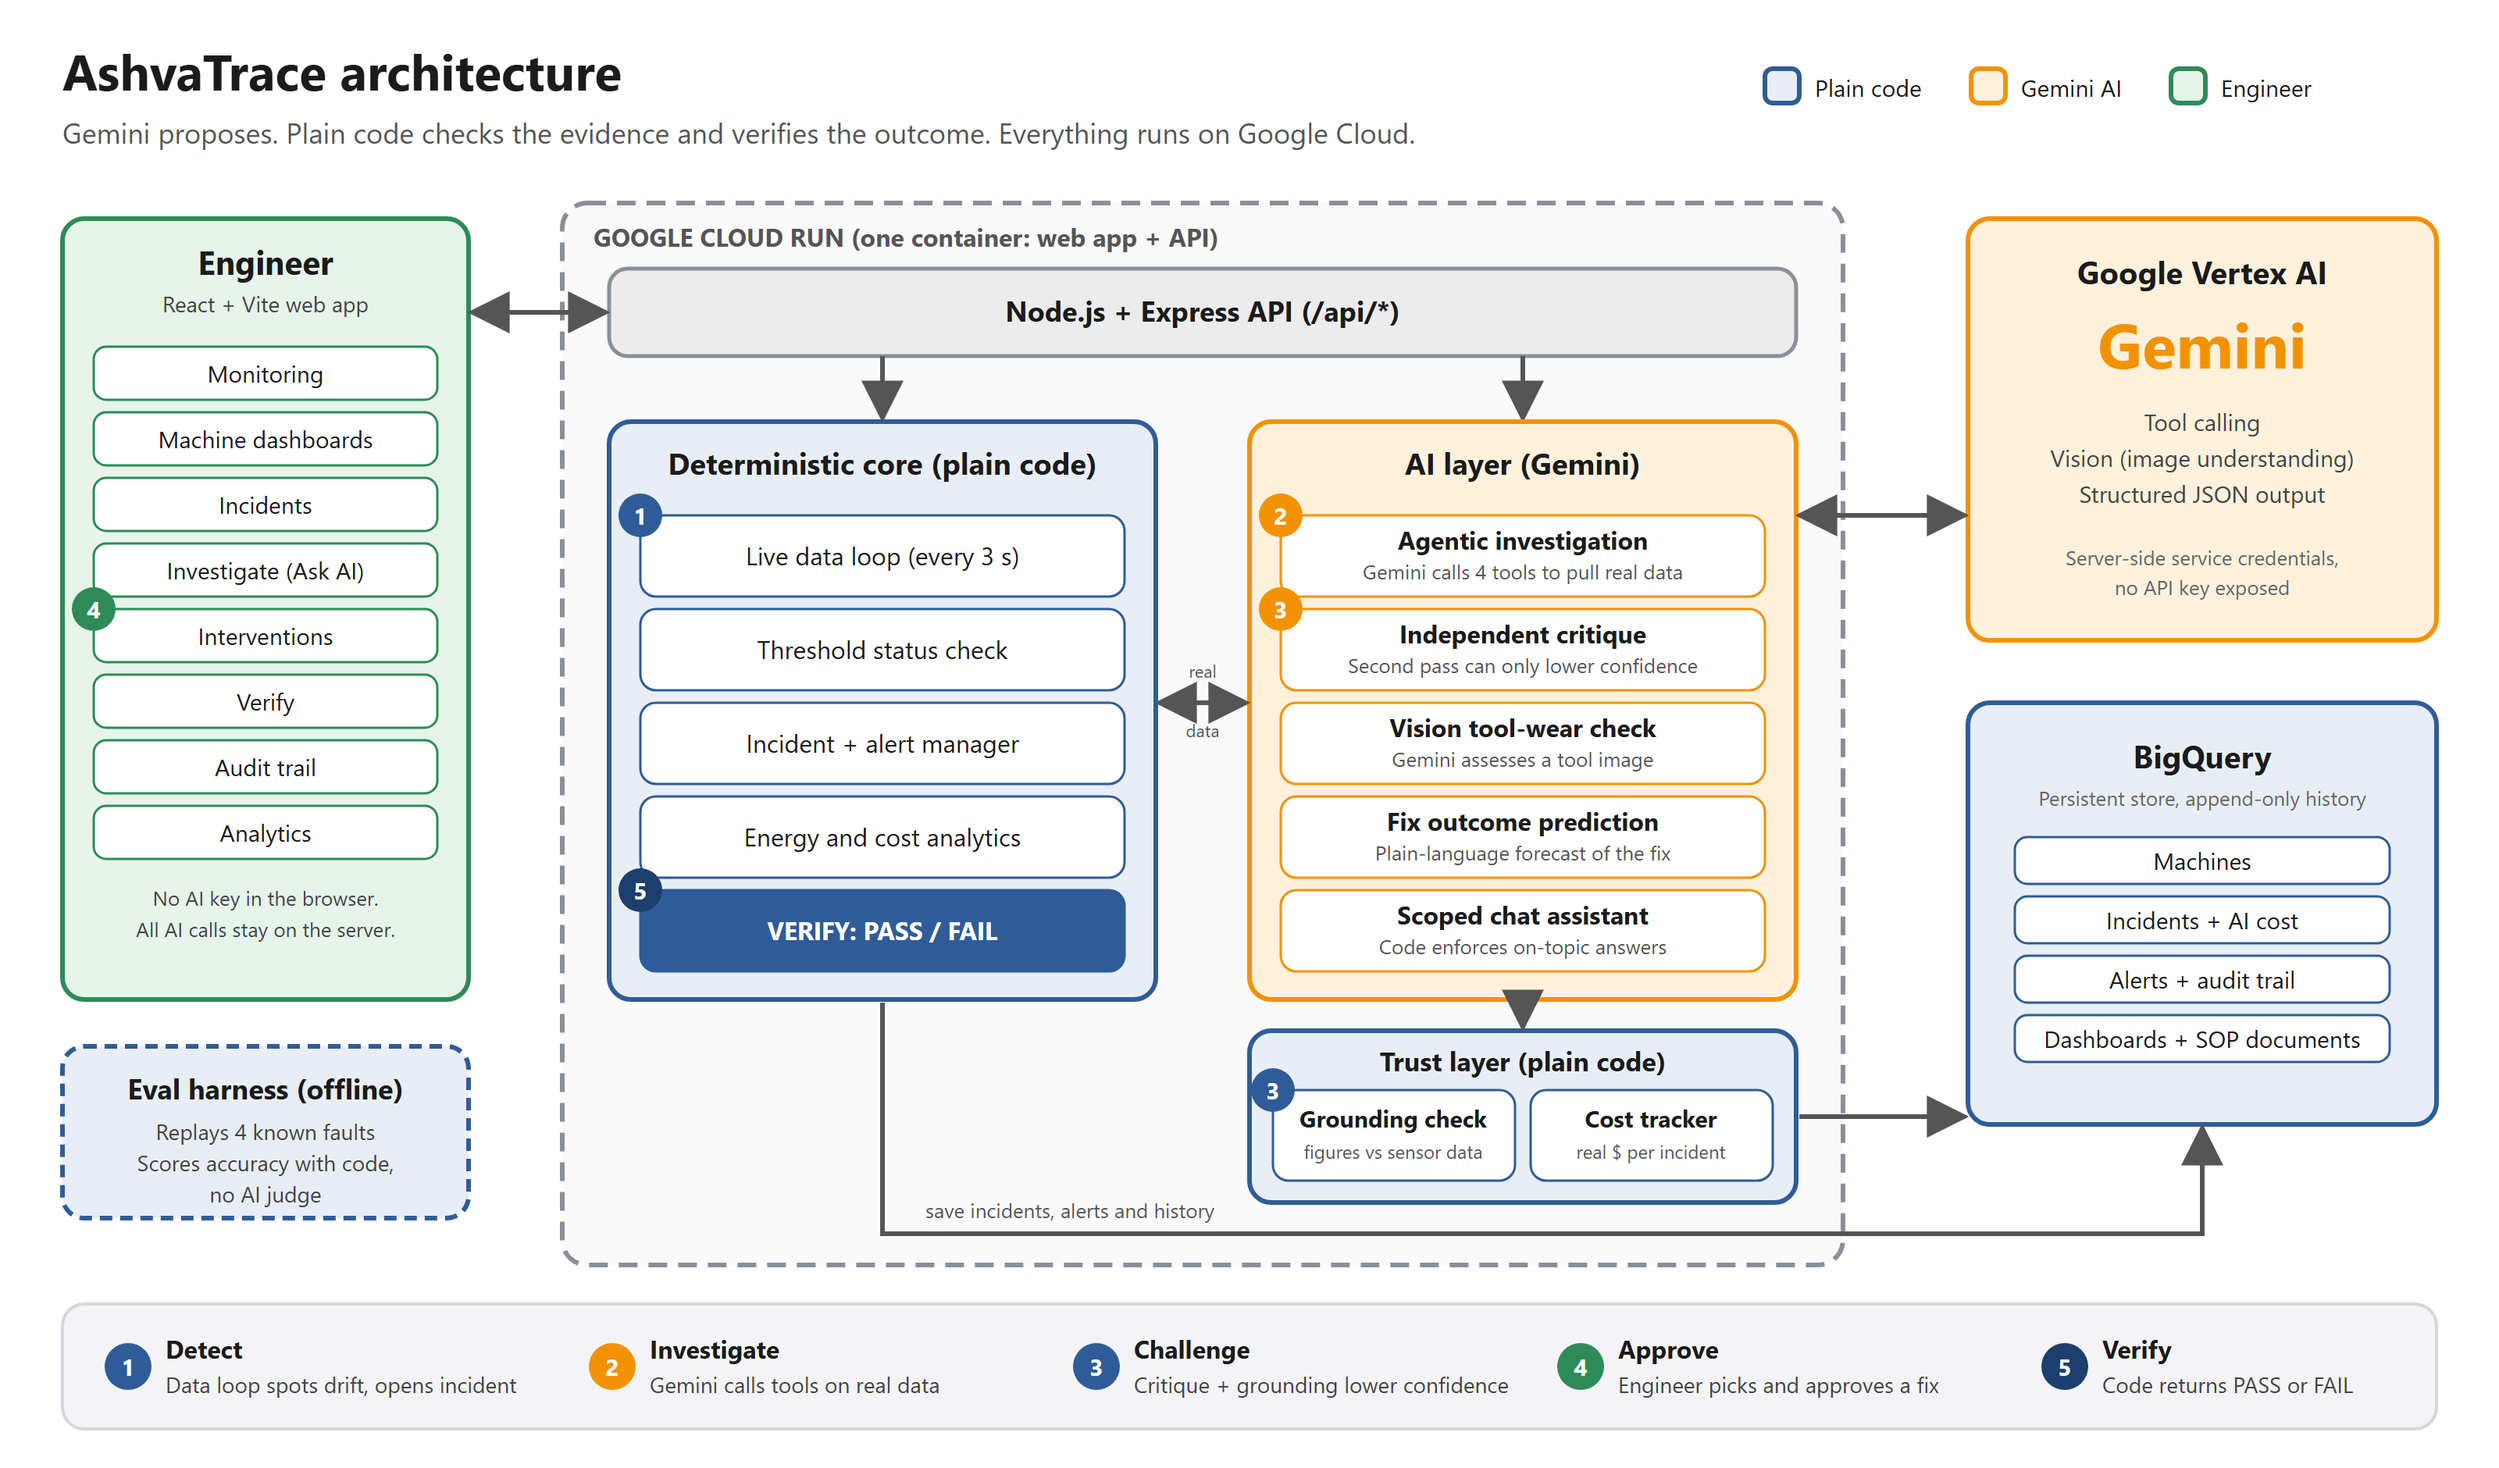
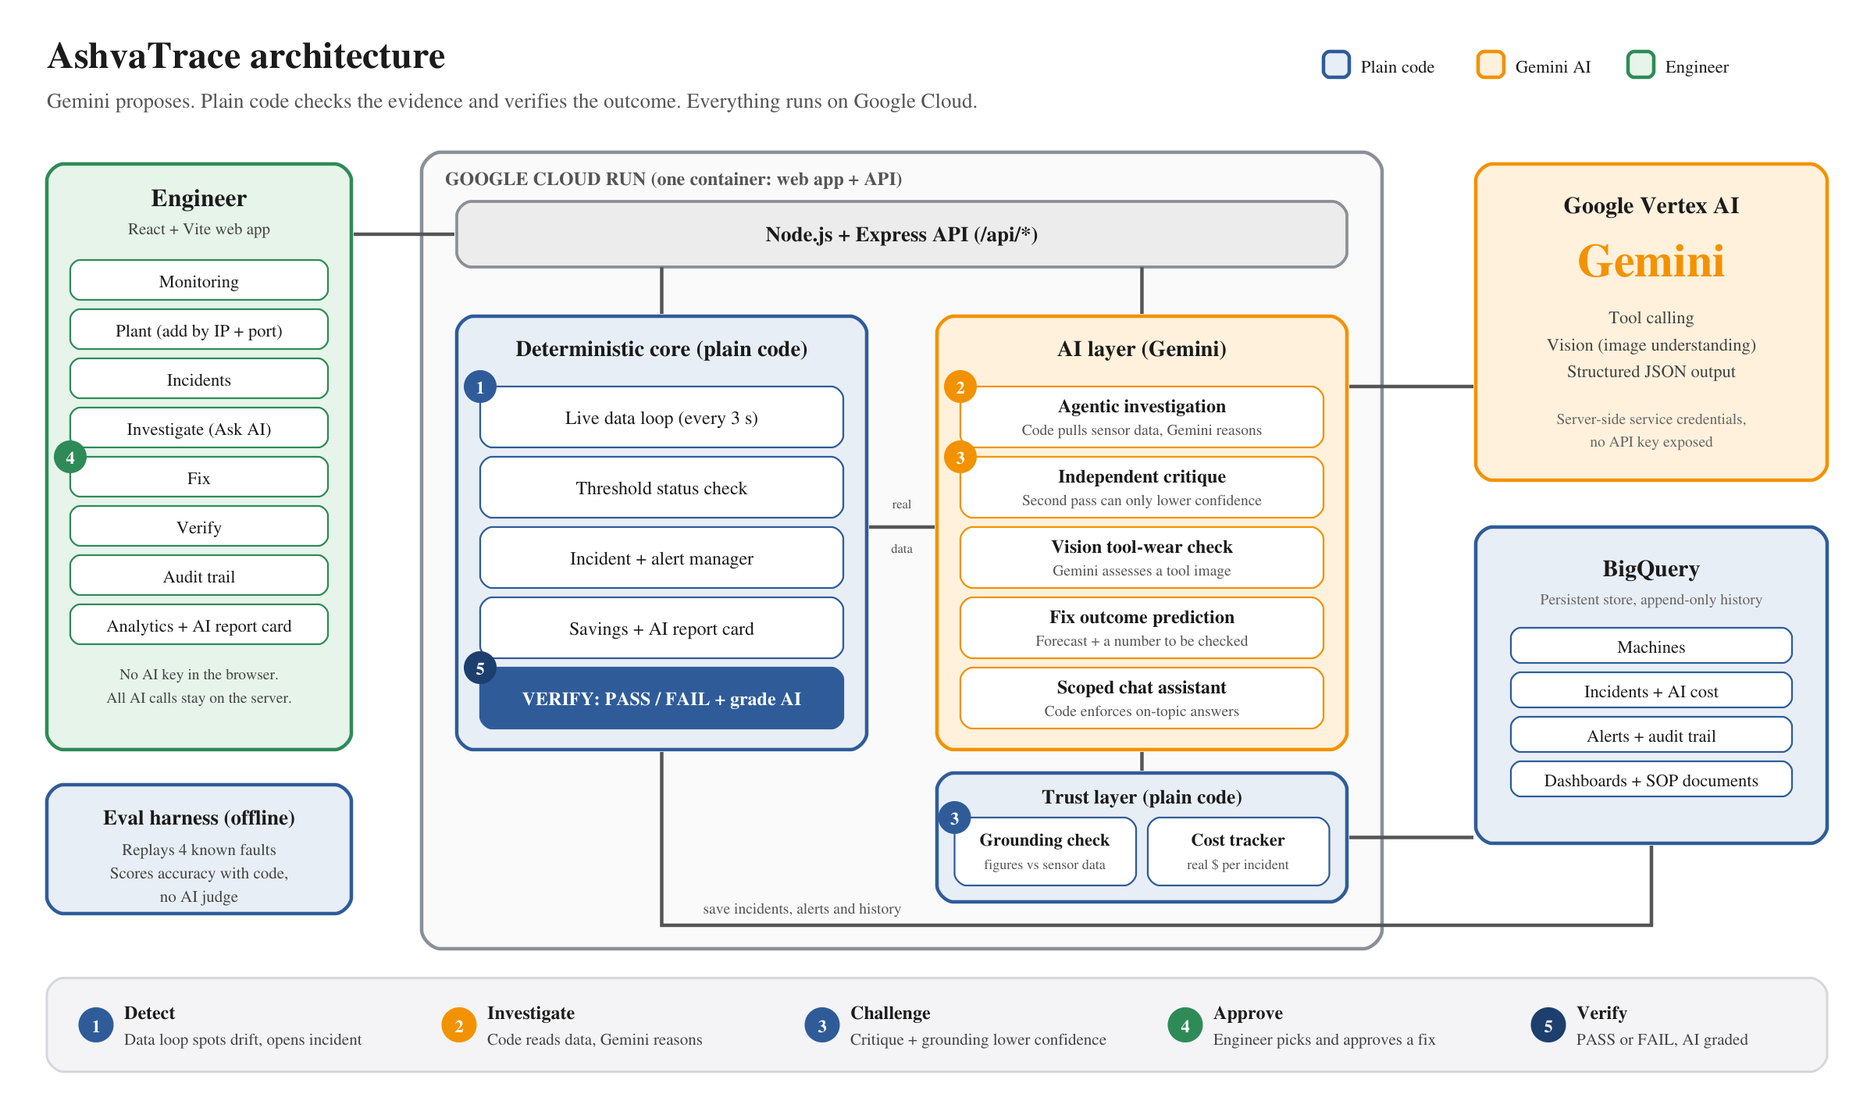
Update project documentation and improve UI components
- Added new submission files to .gitignore
- Enhanced README with clearer flowchart descriptions and added AI report card details
- Updated architecture diagrams to reflect new features and changes
- Modified process flow diagrams for better clarity on AI and code interactions
- Improved HypothesisList component to better highlight the best hypothesis
- Enhanced IncidentView to provide a detailed history of incidents with verification status
- Updated global styles for better visual hierarchy and user experience

diff --git a/frontend/src/pages/IncidentView.tsx b/frontend/src/pages/IncidentView.tsx
@@ -333,10 +333,13 @@ export function IncidentView() {
             <>
               {/* All incidents on this machine — open + past, so the user sees history */}
               {allIncidents.length > 0 && (
-                <div style={{ marginBottom: 16, display: 'grid', gap: 8 }}>
-                  <h4 style={{ margin: 0, fontSize: 13, color: 'var(--muted)', letterSpacing: '0.04em', textTransform: 'uppercase' }}>
-                    Incidents on {incident.machineName}
-                  </h4>
+                <details className="history">
+                  <summary>
+                    History on {incident.machineName}: {allIncidents.length} incident{allIncidents.length === 1 ? '' : 's'}
+                    {' '}({allIncidents.filter((i) => i.verification?.passed).length} fixed and verified,{' '}
+                    {allIncidents.filter((i) => i.verification && !i.verification.passed).length} fix did not work)
+                  </summary>
+                  <div style={{ display: 'grid', gap: 8, marginTop: 8 }}>
                   {allIncidents.map((inc) => {
                     const isOpen = inc.status === 'open' || inc.status === 'investigating' || inc.status === 'action_taken';
                     const isCurrent = inc.id === incident.id;
@@ -386,7 +389,8 @@ export function IncidentView() {
                       </article>
                     );
                   })}
-                </div>
+                  </div>
+                </details>
               )}
 
               {incident.hypotheses.length === 0 && (

diff --git a/frontend/src/styles/global.css b/frontend/src/styles/global.css
@@ -1719,11 +1719,11 @@ table.thr input {
 .hyp-list { display: grid; gap: 12px; }
 .hyp { transition: border-color 0.15s, background 0.15s; }
 .hyp:hover { border-color: color-mix(in srgb, var(--accent) 50%, var(--line)); }
-.hyp.top { border-left: 3px solid var(--accent); }
+.hyp.best { border-left: 3px solid var(--accent); }
 .hyp.selected { outline: 2px solid var(--accent); background: color-mix(in srgb, var(--accent) 7%, var(--panel-2)); }
 .hyp-title { flex: 1; min-width: 180px; }
 .hyp .rank { letter-spacing: 0.08em; }
-.hyp.top .rank { color: var(--accent); }
+.hyp.best .rank { color: var(--accent); }
 .fa ul { margin: 0; padding-left: 18px; display: grid; gap: 3px; }
 .conf { display: flex; align-items: center; gap: 10px; }
 .conf-bar { flex: 1; height: 6px; background: var(--line); border-radius: 3px; overflow: hidden; max-width: 260px; }
@@ -1812,3 +1812,7 @@ table.thr input {
 .savings-stats strong { font-size: 20px; color: var(--ok); }
 .rcard { display: grid; gap: 14px; }
 .track-line { margin: 0 0 12px; padding: 8px 12px; border-left: 3px solid var(--accent); background: var(--panel-2); font-size: 13px; }
+
+.history { margin-bottom: 14px; border: 1px solid var(--line); background: var(--panel-2); padding: 8px 12px; }
+.history summary { cursor: pointer; font-size: 13px; color: var(--muted); }
+.history[open] summary { margin-bottom: 4px; }

diff --git a/frontend/src/components/HypothesisList.tsx b/frontend/src/components/HypothesisList.tsx
@@ -46,7 +46,7 @@ export function HypothesisList({ hypotheses, selectedId, onSelect }: Props) {
         return (
           <article
             key={h.id}
-            className={`hyp ${selected ? 'selected' : ''} ${i === 0 ? 'top' : ''}`}
+            className={`hyp ${selected ? 'selected' : ''} ${i === 0 ? 'best' : ''}`}
             onClick={() => onSelect?.(h.id)}
             style={{ cursor: onSelect ? 'pointer' : undefined }}
           >

diff --git a/README.md b/README.md
@@ -34,13 +34,14 @@ flowchart LR
     D --> E[Independent critic<br/>can only lower confidence]
     E --> F[Grounding check<br/>deterministic: every quoted<br/>number must exist in the data]
     F --> G[Engineer picks hypothesis<br/>and intervention]
-    G --> H[Gemini predicts outcome]
+    G --> H["Gemini predicts outcome<br/>and commits to a number"]
     H --> I[Real post-action metrics]
     I --> J{"verify()<br/>deterministic"}
-    J -->|PASS| K[Incident resolved]
+    J -->|PASS| K["Incident resolved<br/>savings in kW, $/day, CO2"]
     J -->|FAIL| L[Hypothesis unconfirmed,<br/>escalate]
     K --> M[(Audit trail +<br/>institutional memory)]
     L --> M
+    M --> N["AI report card<br/>code grades the AI"]
 ```
 
 Four places where plain code, not a model, has the last word:
@@ -71,22 +72,24 @@ Chat is guarded the same way: on-topic enforcement is a forced `onTopic` boolean
 ```mermaid
 flowchart TB
     subgraph Browser
-        UI[React + Vite + TypeScript<br/>Monitoring · Machine · Incident · Analytics · Settings]
+        UI[React + Vite + TypeScript<br/>Monitoring · Machine · Incident · Analytics (AI report card) · Settings]
     end
 
     subgraph CloudRun[Google Cloud Run: single container]
         direction TB
         API[Express API + static frontend]
-        SIM[Live simulator<br/>3 s tick per machine]
+        SIM[Live simulator<br/>3 s tick per machine<br/>machines added by IP + port]
         THR[Threshold checker<br/>5 s]
         INC[Incident service]
-        AI[AI layer: ai.ts · grounding.ts<br/>investigationTools.ts · chatService.ts]
+        AI[AI layer: ai.ts · grounding.ts<br/>investigationTools.ts · chatService.ts<br/>sensor tools run in parallel by code]
         VER["verify() - pure function"]
+        TRK["AI report card<br/>trackRecordService.ts"]
         SSE[SSE broadcaster]
         API --- INC
         SIM --> THR --> INC
         INC --> AI
         INC --> VER
+        VER --> TRK
         INC --> SSE
     end
 
